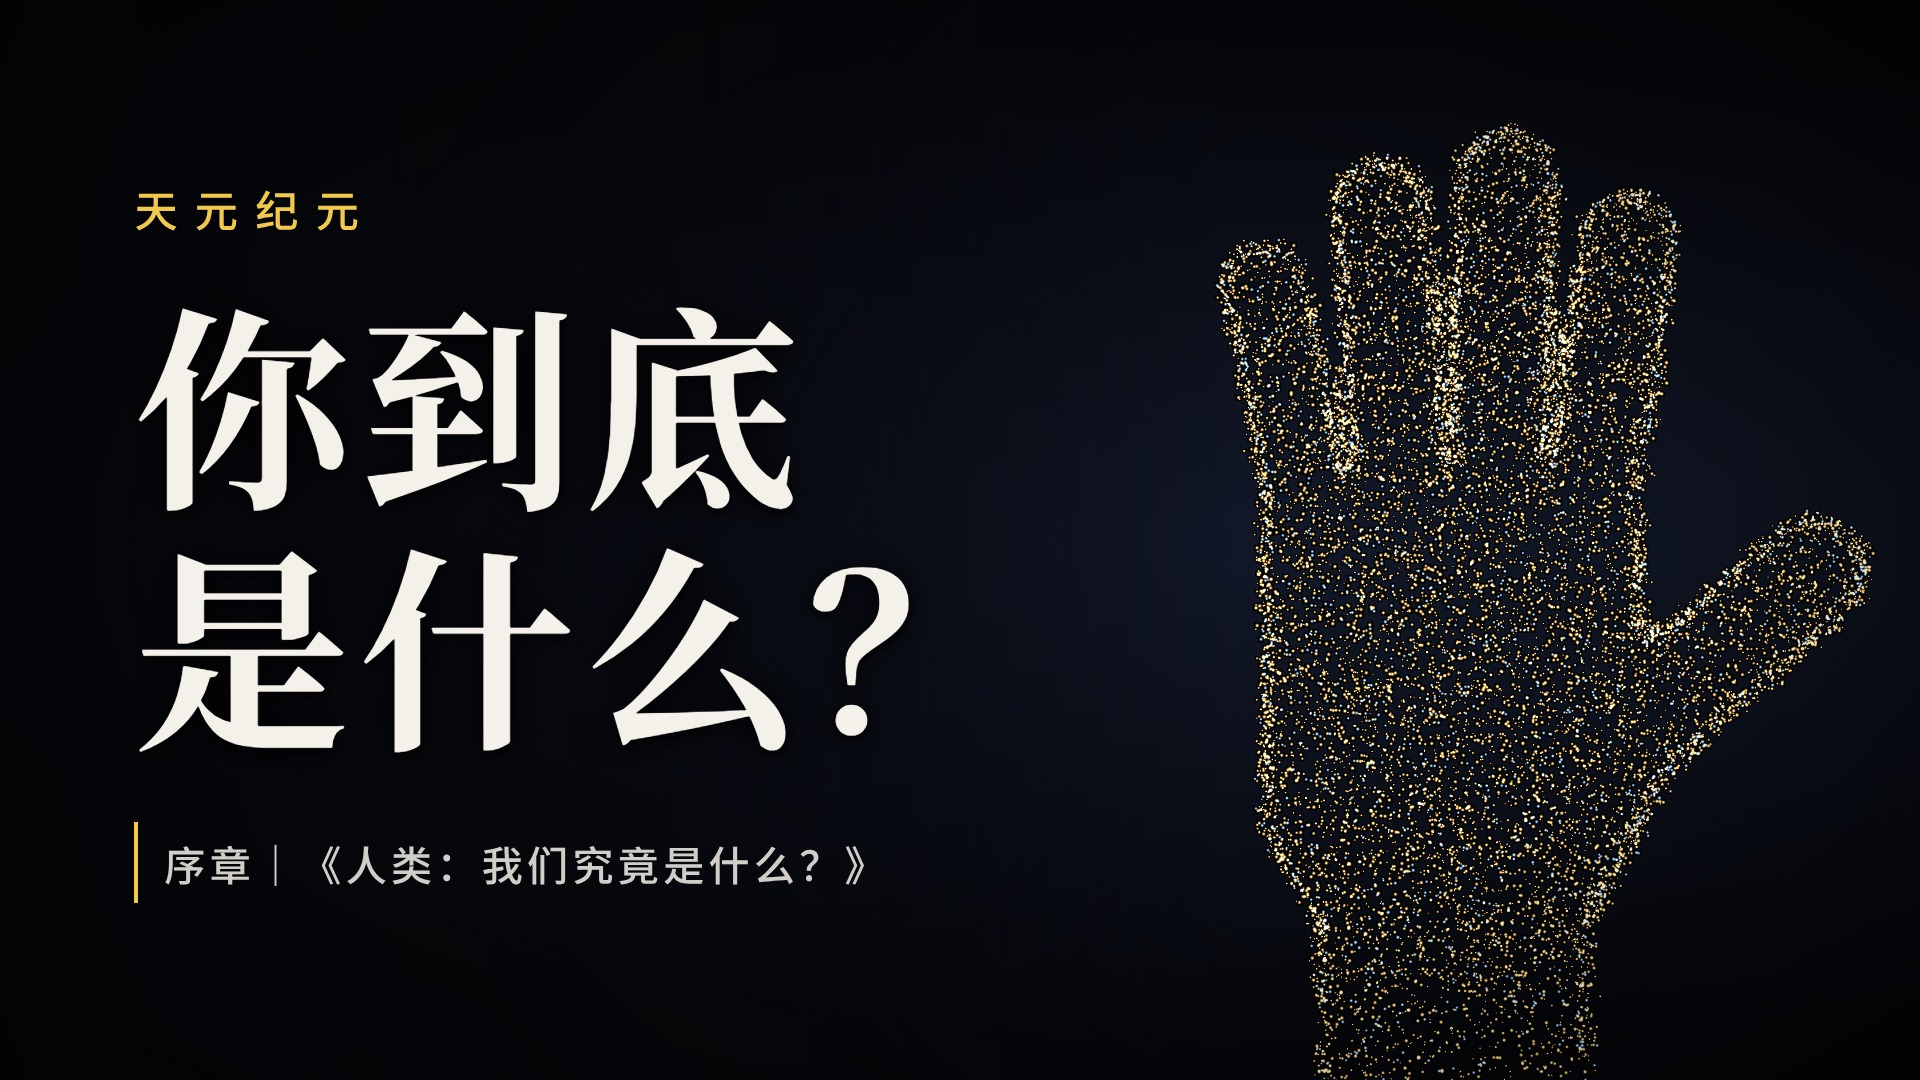
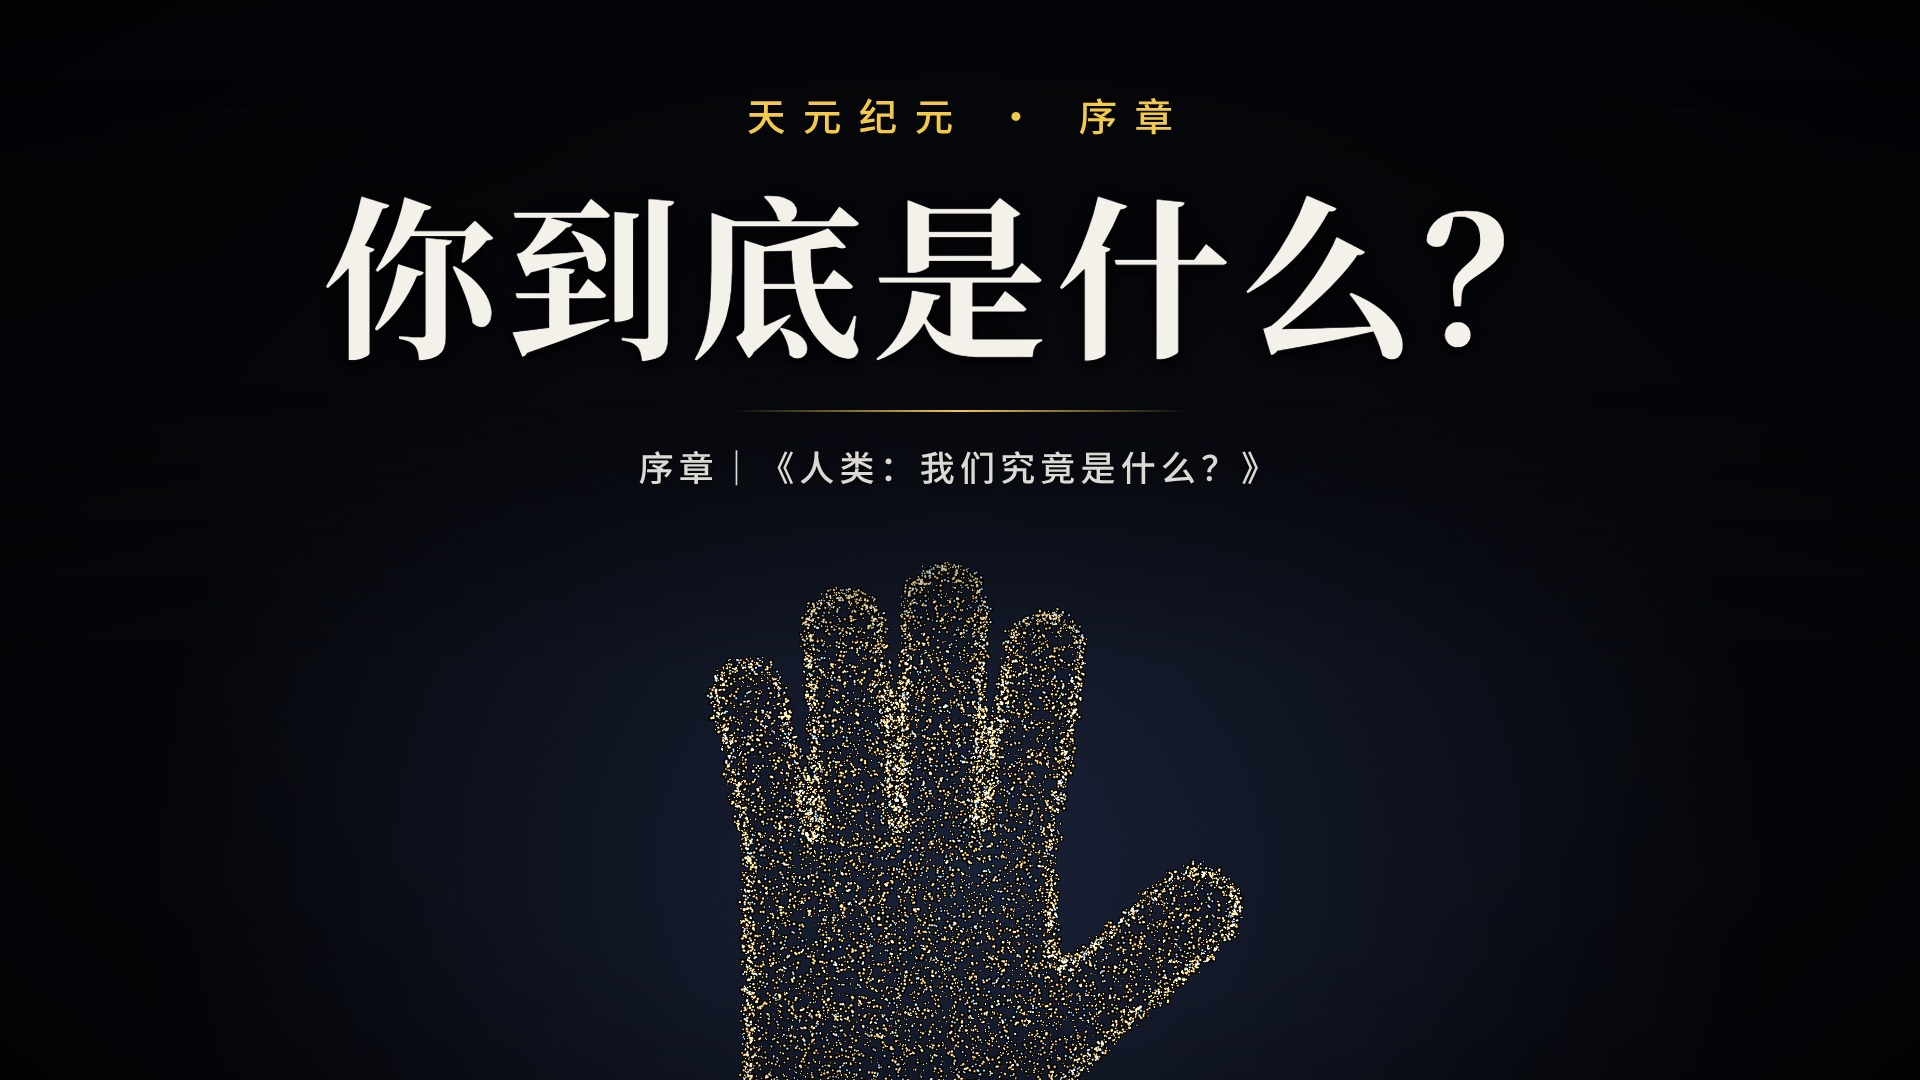
Covers v2: centred template, four ratios; update cover rule
Claude-Session: https://claude.ai/code/session_01FDQcPRBtRTjdfv4a3ZhmvF

Changed region(s): [[0.0625, 0.1222, 0.9688, 1.0], [0.375, 0.0917, 0.5, 0.1222], [0.5625, 0.0917, 0.625, 0.1222]]

diff --git a/studio/src/ep00/Cover.tsx b/studio/src/ep00/Cover.tsx
@@ -2,47 +2,29 @@ import React from "react";
 import { AbsoluteFill, useVideoConfig } from "remotion";
 import { ThreeCanvas } from "@remotion/three";
 import { ParticleField } from "./ParticleField";
-import { COLORS, FONT_SANS, FONT_SERIF, loadFonts } from "../components/theme";
+import { CoverLayout, CoverText } from "../components/CoverLayout";
+import { loadFonts } from "../components/theme";
 
-// Cover copy. Hook big, fixed-format title small (标题格式：期号｜《片名》).
-const COVER = { hook: ["你到底", "是什么？"], kicker: "天元纪元", title: "序章｜《人类：我们究竟是什么？》" };
-loadFonts(COVER.hook.join("") + COVER.kicker + COVER.title);
+export const EP00_COVER: CoverText = {
+  badge: "天元纪元 · 序章",
+  hookWide: ["你到底是什么？"],
+  hookTall: ["你到底", "是什么？"],
+  title: "序章｜《人类：我们究竟是什么？》",
+};
+loadFonts(EP00_COVER.badge + EP00_COVER.hookWide.join("") + EP00_COVER.title);
 
-type Layout = "wide" | "tall";
-
-/** Static cover: particle hand (from t=24.8, hand fully formed, facing camera) + type. */
-export const Cover: React.FC<{ layout: Layout }> = ({ layout }) => {
+/** Key visual: the particle hand rising from the bottom centre, fingertips just under the title. */
+export const Cover: React.FC = () => {
   const { width, height } = useVideoConfig();
-  const wide = layout === "wide";
-  const aspect = width / height;
-  // wide: hand on the right third; tall: hand in lower half
-  const cam: [number, number, number] = wide ? (aspect > 1.6 ? [-2.0, 0.35, 6.0] : [-2.4, 0.35, 8.6]) : [0, 2.85, 9.0];
-  const hookSize = wide ? height * (aspect > 1.6 ? 0.2 : 0.17) : width * 0.2;
+  const ar = width / height;
+  // camera height / distance tuned per aspect so fingertips sit at ~52% (wide) or ~50% (tall) of the frame
+  const cam: [number, number, number] = ar > 1.6 ? [0.3, 2.15, 7.6] : ar > 1.1 ? [0.3, 2.3, 8.6] : ar > 0.65 ? [0.3, 2.75, 9.6] : [0.3, 2.6, 10.2];
   return (
-    <AbsoluteFill style={{ background: `radial-gradient(ellipse at ${wide ? "68% 50%" : "50% 66%"}, #121829 0%, ${COLORS.bg} 68%)` }}>
+    <CoverLayout text={EP00_COVER}>
+      <AbsoluteFill style={{ background: "radial-gradient(ellipse at 50% 80%, #1a2238 0%, #05060a 60%)" }} />
       <ThreeCanvas width={width} height={height} camera={{ fov: 40, near: 0.1, far: 200, position: [0, 0, 8] }} gl={{ antialias: true }}>
-        <ParticleField t={24.8} width={width} height={height} cam={cam} boost={1.35} />
+        <ParticleField t={24.8} width={width} height={height} cam={cam} boost={1.5} />
       </ThreeCanvas>
-      <AbsoluteFill style={{ background: wide ? "linear-gradient(90deg, rgba(5,6,10,0.85) 0%, rgba(5,6,10,0.4) 45%, rgba(5,6,10,0) 65%)" : "linear-gradient(180deg, rgba(5,6,10,0.8) 0%, rgba(5,6,10,0.3) 40%, rgba(5,6,10,0) 55%)" }} />
-      <AbsoluteFill style={{ background: "radial-gradient(ellipse at 50% 50%, rgba(0,0,0,0) 55%, rgba(0,0,0,0.5) 100%)" }} />
-      <AbsoluteFill
-        style={{
-          padding: wide ? `0 0 0 ${width * 0.07}px` : `${height * 0.08}px ${width * 0.08}px 0`,
-          justifyContent: wide ? "center" : "flex-start",
-          alignItems: wide ? "flex-start" : "center",
-          textAlign: wide ? "left" : "center",
-        }}
-      >
-        <div style={{ fontFamily: FONT_SANS, fontWeight: 500, fontSize: hookSize * 0.2, letterSpacing: hookSize * 0.08, color: "#f2c94c", marginBottom: hookSize * 0.18 }}>{COVER.kicker}</div>
-        {COVER.hook.map((l) => (
-          <div key={l} style={{ fontFamily: FONT_SERIF, fontWeight: 700, fontSize: hookSize, lineHeight: 1.12, letterSpacing: hookSize * 0.04, color: COLORS.text, textShadow: "0 0 40px rgba(0,0,0,0.9), 0 4px 12px rgba(0,0,0,0.8)" }}>
-            {l}
-          </div>
-        ))}
-        <div style={{ marginTop: hookSize * 0.28, fontFamily: FONT_SANS, fontWeight: 500, fontSize: hookSize * 0.19, letterSpacing: hookSize * 0.02, color: "rgba(244,241,234,0.85)", padding: `${hookSize * 0.05}px ${hookSize * 0.12}px`, borderLeft: wide ? "4px solid #f2c94c" : undefined, borderTop: wide ? undefined : "2px solid rgba(242,201,76,0.8)" }}>
-          {COVER.title}
-        </div>
-      </AbsoluteFill>
-    </AbsoluteFill>
+    </CoverLayout>
   );
 };

diff --git a/studio/src/components/CoverLayout.tsx b/studio/src/components/CoverLayout.tsx
@@ -1,0 +1,45 @@
+import React from "react";
+import { AbsoluteFill, useVideoConfig } from "remotion";
+import { COLORS, FONT_SANS, FONT_SERIF } from "./theme";
+
+/**
+ * Series cover template (all ratios, everything centred).
+ * - badge:  "天元纪元 · 序章" small gold, top centre
+ * - hook:   the big question, 1 line on wide covers, 2 lines on tall ones
+ * - title:  fixed format 期号｜《片名》, small, under a thin gold rule
+ * - visual: the episode's key image, centred in the lower part (children)
+ * Text stays inside the central 4:3 safe area so a 16:9 cover survives a 4:3 crop.
+ */
+export type CoverText = { badge: string; hookWide: string[]; hookTall: string[]; title: string };
+
+export const CoverLayout: React.FC<{ text: CoverText; children: React.ReactNode }> = ({ text, children }) => {
+  const { width, height } = useVideoConfig();
+  const ar = width / height;
+  const tall = ar < 1;
+  const hook = tall ? text.hookTall : text.hookWide;
+  // size the hook by the shorter usable dimension
+  const safeW = tall ? width * 0.86 : Math.min(width, height * (4 / 3)) * 0.9;
+  const longest = Math.max(...hook.map((l) => Array.from(l).length));
+  const hookSize = Math.min(safeW / (longest * 1.06), height * (tall ? 0.12 : 0.17));
+  const top = height * (ar < 0.6 ? 0.16 : tall ? 0.09 : 0.08);
+  return (
+    <AbsoluteFill style={{ background: COLORS.bg }}>
+      {children}
+      {/* darken behind the text so it reads at thumbnail size */}
+      <AbsoluteFill style={{ background: `linear-gradient(180deg, rgba(5,6,10,0.92) 0%, rgba(5,6,10,0.75) ${tall ? 32 : 38}%, rgba(5,6,10,0) ${tall ? 52 : 62}%)` }} />
+      <AbsoluteFill style={{ background: "radial-gradient(ellipse at 50% 55%, rgba(0,0,0,0) 50%, rgba(0,0,0,0.55) 100%)" }} />
+      <AbsoluteFill style={{ alignItems: "center", paddingTop: top, textAlign: "center" }}>
+        <div style={{ fontFamily: FONT_SANS, fontWeight: 500, fontSize: hookSize * 0.22, letterSpacing: hookSize * 0.1, color: "#f2c94c", paddingLeft: hookSize * 0.1 }}>{text.badge}</div>
+        <div style={{ marginTop: hookSize * 0.16 }}>
+          {hook.map((l) => (
+            <div key={l} style={{ fontFamily: FONT_SERIF, fontWeight: 700, fontSize: hookSize, lineHeight: 1.15, letterSpacing: hookSize * 0.05, paddingLeft: hookSize * 0.05, color: COLORS.text, whiteSpace: "nowrap", textShadow: "0 0 36px rgba(0,0,0,0.95), 0 4px 10px rgba(0,0,0,0.8)" }}>
+              {l}
+            </div>
+          ))}
+        </div>
+        <div style={{ marginTop: hookSize * 0.22, width: hookSize * 2.6, height: 2, background: "linear-gradient(90deg, transparent, #f2c94c, transparent)" }} />
+        <div style={{ marginTop: hookSize * 0.16, fontFamily: FONT_SANS, fontWeight: 500, fontSize: hookSize * 0.2, letterSpacing: hookSize * 0.03, color: "rgba(244,241,234,0.9)", textShadow: "0 0 16px rgba(0,0,0,0.9)" }}>{text.title}</div>
+      </AbsoluteFill>
+    </AbsoluteFill>
+  );
+};

diff --git a/studio/src/Root.tsx b/studio/src/Root.tsx
@@ -7,8 +7,9 @@ import timeline from "../../episodes/EP00_人类/timeline.json";
 export const Root: React.FC = () => (
   <>
     <Composition id="EP00" component={EP00} durationInFrames={Math.round(timeline.duration * timeline.fps)} fps={timeline.fps} width={1920} height={1080} />
-    <Composition id="EP00-Cover-16x9" component={Cover} defaultProps={{ layout: "wide" as const }} durationInFrames={1} fps={30} width={1920} height={1080} />
-    <Composition id="EP00-Cover-4x3" component={Cover} defaultProps={{ layout: "wide" as const }} durationInFrames={1} fps={30} width={1440} height={1080} />
-    <Composition id="EP00-Cover-3x4" component={Cover} defaultProps={{ layout: "tall" as const }} durationInFrames={1} fps={30} width={1080} height={1440} />
+    <Composition id="EP00-Cover-16x9" component={Cover} durationInFrames={1} fps={30} width={1920} height={1080} />
+    <Composition id="EP00-Cover-4x3" component={Cover} durationInFrames={1} fps={30} width={1440} height={1080} />
+    <Composition id="EP00-Cover-3x4" component={Cover} durationInFrames={1} fps={30} width={1080} height={1440} />
+    <Composition id="EP00-Cover-9x16" component={Cover} durationInFrames={1} fps={30} width={1080} height={1920} />
   </>
 );

diff --git a/CLAUDE.md b/CLAUDE.md
@@ -10,8 +10,10 @@
    - EP00：`序章｜《人类：我们究竟是什么？》`
    - 之后各期：`第N期｜《片名》`（如 `第1期｜《我为什么会存在？》`）
    - 吸引人的钩子句放在封面字和简介/文案首句，不改标题格式。
-5. **每次交付成片时，同时交付封面**（`episodes/EPxx_*/cover/`，Remotion Still 合成 `EPxx-Cover-*` 渲染）：
-   16:9 1920×1080（B站 / YouTube）、4:3 1440×1080（B站动态）、3:4 1080×1440（抖音 / 小红书 / 视频号）。
-   版式：本片主视觉 + 大号钩子句（2 行内）+ 小字固定格式标题 `期号｜《片名》` + 金色“天元纪元”。手机缩略图下钩子句必须清晰可读。
+5. **每次交付成片时，同时交付封面**（`episodes/EPxx_*/cover/`，模板 `studio/src/components/CoverLayout.tsx`）：
+   - 比例：16:9 1920×1080（B站 / YouTube / 横版视频）、4:3 1440×1080（B站推荐位裁切）、3:4 1080×1440（小红书 / 抖音主页）、9:16 1080×1920（抖音 / 视频号竖版）。
+   - **所有文字必须居中**，不得放在一侧；文字在中央 4:3 安全区内，16:9 被裁成 4:3 也不丢字。
+   - 版式：顶部金色“天元纪元 · 期号”→ 大号钩子句（横版 1 行、竖版 2 行）→ 金色细线 → 小字 `期号｜《片名》` → 下方居中主视觉。
+   - 平台尺寸以各平台上传页提示为准，有变化时更新本条。
 6. 成片放 `deliver/`（不入 git），交付 1080p 发布版 + 720p 预览版，单个文件控制在 100MB 以内以便下载。
 7. 中断前更新 STATUS.md 并提交推送。
